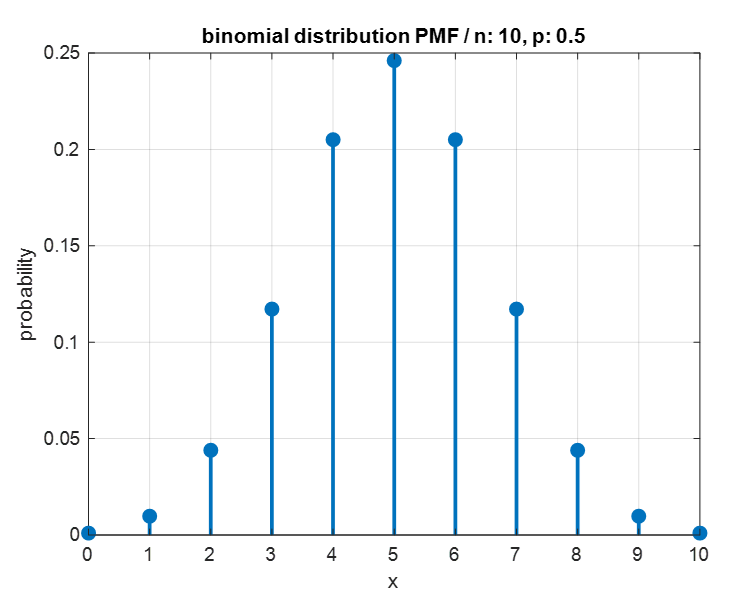
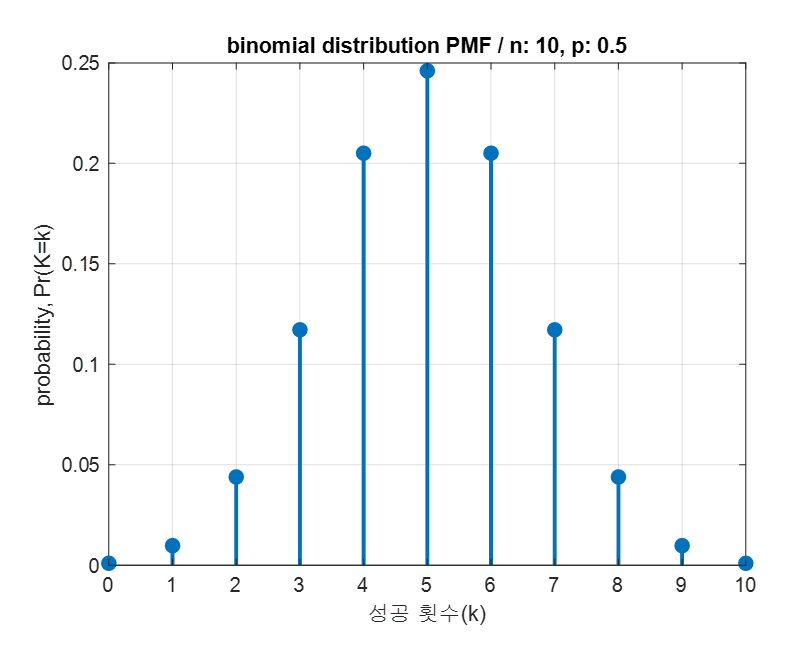
-

diff --git a/_posts/2021-04-23-binomial_distribution.md b/_posts/2021-04-23-binomial_distribution.md
@@ -102,7 +102,11 @@ $$Pr(K=k) = [0.0010, 0.0098, 0.0439, 0.1172, 0.2051, 0.2461, 0.2051, 0.1172, 0.0
 
 숫자로만 보면 어려워 보일 수 있기 때문에 이 결과를 그림으로 그려보면 다음과 같다는 것을 쉽게 알 수 있다.
 
-
+<p align = "center">
+  <img width = "600" src = "https://raw.githubusercontent.com/angeloyeo/angeloyeo.github.io/master/pics/2021-04-23-binomial_distribution/pic1.png">
+  <br>
+  그림 1. 총 시행횟수 10, 성공확률 0.5인 경우의 다양한 성공 횟수에 대한 확률을 나타낸 이항분포의 형태 
+</p>
 
 
 ## 컴퓨터 시뮬레이션으로 이항분포 histogram 그리기
